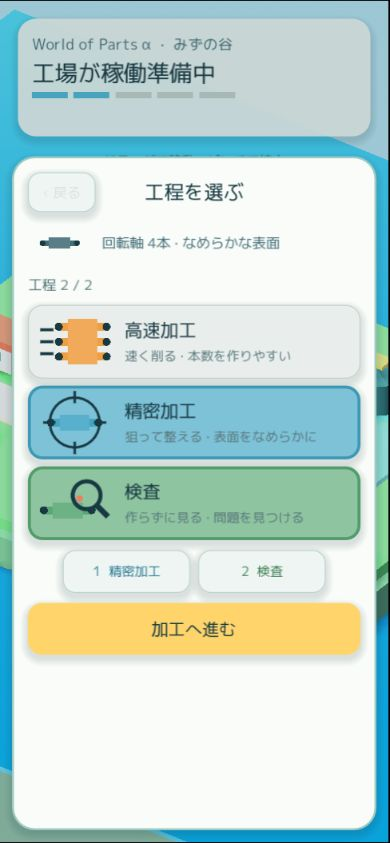
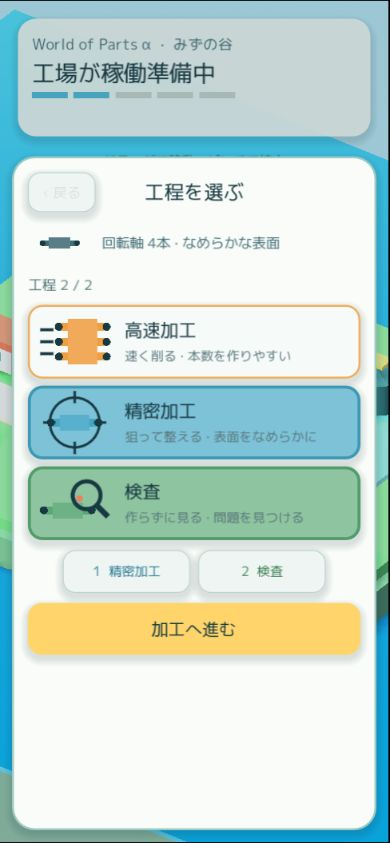
docs: publish long-horizon foundation review

Changed region(s): [[0.0615, 0.3393, 0.9231, 0.4626]]

diff --git a/docs/index.html b/docs/index.html
@@ -11,7 +11,7 @@
   <header class="hero">
     <p class="eyebrow">World of Parts · Production Alpha</p>
     <h1>開発レビュー</h1>
-    <p class="lead">「世界 → 工場 → 回転軸」の入口を作っている本番α版です。現在は、最初の工場を建て、給水ポンプ用の回転軸を受注し、最大2工程を選んで加工へ進む直前まで実装しています。</p>
+    <p class="lead">「世界 → 工場 → 回転軸」の入口を作っている本番α版です。現在は、最初の工場を建て、給水ポンプ用の回転軸を受注し、加工方法と任意検査を選んで加工へ進む直前まで実装しています。</p>
     <a class="play-link" href="https://world-of-parts-alpha.pages.dev/">Godot本体を開く</a>
   </header>
 
@@ -27,8 +27,8 @@
           <p>ローカル実行、Webビルド、レビュー成果物をCodex環境で確認済みです。</p>
         </article>
         <article>
-          <h3>Level 2 · 公開確認済み</h3>
-          <p>認証なしの公開HTML、JSON、代表画像を外部HTTPから取得できる状態です。</p>
+          <h3>Level 2 · 公開更新待ち</h3>
+          <p>このReview Setを公開ミラーへ反映後、外部HTTPで確認します。</p>
         </article>
         <article>
           <h3>Level 3 · このチャット確認</h3>
@@ -62,7 +62,7 @@
         </figure>
         <figure>
           <img src="https://raw.githubusercontent.com/yuta382/world-of-parts-alpha-review/main/docs/screenshots/process-selection.png" alt="高速加工、精密加工、検査から精密加工と検査を選び、順番を確認する画面">
-          <figcaption><strong>工程選択</strong><span>役割の異なる3工程から最大2つを選び、順番を確認する。</span></figcaption>
+          <figcaption><strong>工程選択</strong><span>高速または精密を一つ選び、検査を必要なら追加する。</span></figcaption>
         </figure>
       </div>
     </section>
@@ -77,8 +77,10 @@
           <li>ピンチ／ホイールによるズーム</li>
           <li>建設後の次需要「回転軸」の表示</li>
           <li>給水ポンプ用回転軸の受注表示</li>
-          <li>高速加工・精密加工・検査から最大2工程を選択</li>
-          <li>工程順の確認と加工直前の準備状態</li>
+          <li>高速加工または精密加工を一つ選び、検査を必要なら追加</li>
+          <li>加工方法→任意検査の順序確認と加工直前の準備状態</li>
+          <li>名前空間付きIDによる部品・機械・産業・街のコンテンツ参照</li>
+          <li>バックアップと移行を持つversion付きオフラインセーブ</li>
         </ul>
       </article>
       <article>
@@ -100,14 +102,14 @@
           <dt>ピンチ／ホイール</dt><dd>拡大・縮小する</dd>
           <dt>建設ボタン</dt><dd>最初の工場を建てる</dd>
           <dt>受注を見る</dt><dd>回転軸の用途と要求を確認する</dd>
-          <dt>工程カード</dt><dd>最大2工程を選び、選択順を確認する</dd>
+          <dt>工程カード</dt><dd>加工方法を一つ選び、検査を必要なら追加する</dd>
         </dl>
       </article>
       <article>
         <h2>未実装</h2>
         <ul>
           <li>一本指加工、部品完成、ポンプ、世界変化</li>
-          <li>経済、保存、オンライン機能</li>
+          <li>経済、オンライン機能</li>
           <li>正式アート、音、正式なゲームループ</li>
         </ul>
       </article>
@@ -121,7 +123,7 @@
       <div class="notes-columns">
         <div>
           <h3>今回追加したもの</h3>
-          <p>参考画像の明るい水・緑・町・工場のつながりをプリミティブで再構成し、工場建設後から回転軸の受注、工程選択、加工準備までをGodot本体へつなぎました。</p>
+          <p>累積24時間以上の循環、Game Director監査、Water Chainだけの安定ID、正常バックアップから復旧できるversion付きオフラインセーブを本番基盤へ追加しました。工程は高速加工か精密加工を一つ選び、検査を必要なら追加する役割分担に整理しています。</p>
         </div>
         <div>
           <h3>既知の問題</h3>
@@ -129,6 +131,7 @@
             <li>初回起動ではGodot Webデータの読み込み時間が発生する。</li>
             <li>現在は工程選択までで、一本指加工以降のゲームループは未実装。</li>
             <li>レビュー画像は機能変更時に更新する必要がある。</li>
+            <li>Webブラウザでの保存・再読込は確認済み。長期保存、容量上限、保存不能時の実機確認は未完了。</li>
           </ul>
         </div>
       </div>
@@ -140,9 +143,11 @@
         <h2 id="build-title">公開中のビルド</h2>
       </div>
       <dl>
+        <dt>Review Set</dt><dd><code>alpha-rs-0003-long-horizon-foundation</code></dd>
+        <dt>Guardian</dt><dd><strong>GREEN</strong> · 横展開せず、一本指加工からWater Chainを縦に実装する</dd>
         <dt>ブランチ</dt><dd><code>agent/alpha-01-diorama-foundation</code></dd>
-        <dt>コミット</dt><dd><code>0e163359ccd8ed5f456f6e12ed4ab90fb4e771ea</code></dd>
-        <dt>最終更新</dt><dd><time datetime="2026-08-11T01:20:56Z">2026-08-11T01:20:56Z</time></dd>
+        <dt>コミット</dt><dd><code>fb43f1973a4bc6813b809d1c3133b6ddc656291d</code></dd>
+        <dt>最終更新</dt><dd><time datetime="2026-08-11T03:46:53Z">2026-08-11T03:46:53Z</time></dd>
         <dt>エンジン</dt><dd>Godot 4.7.1 Standard / GDScript / Compatibility renderer</dd>
       </dl>
     </section>
